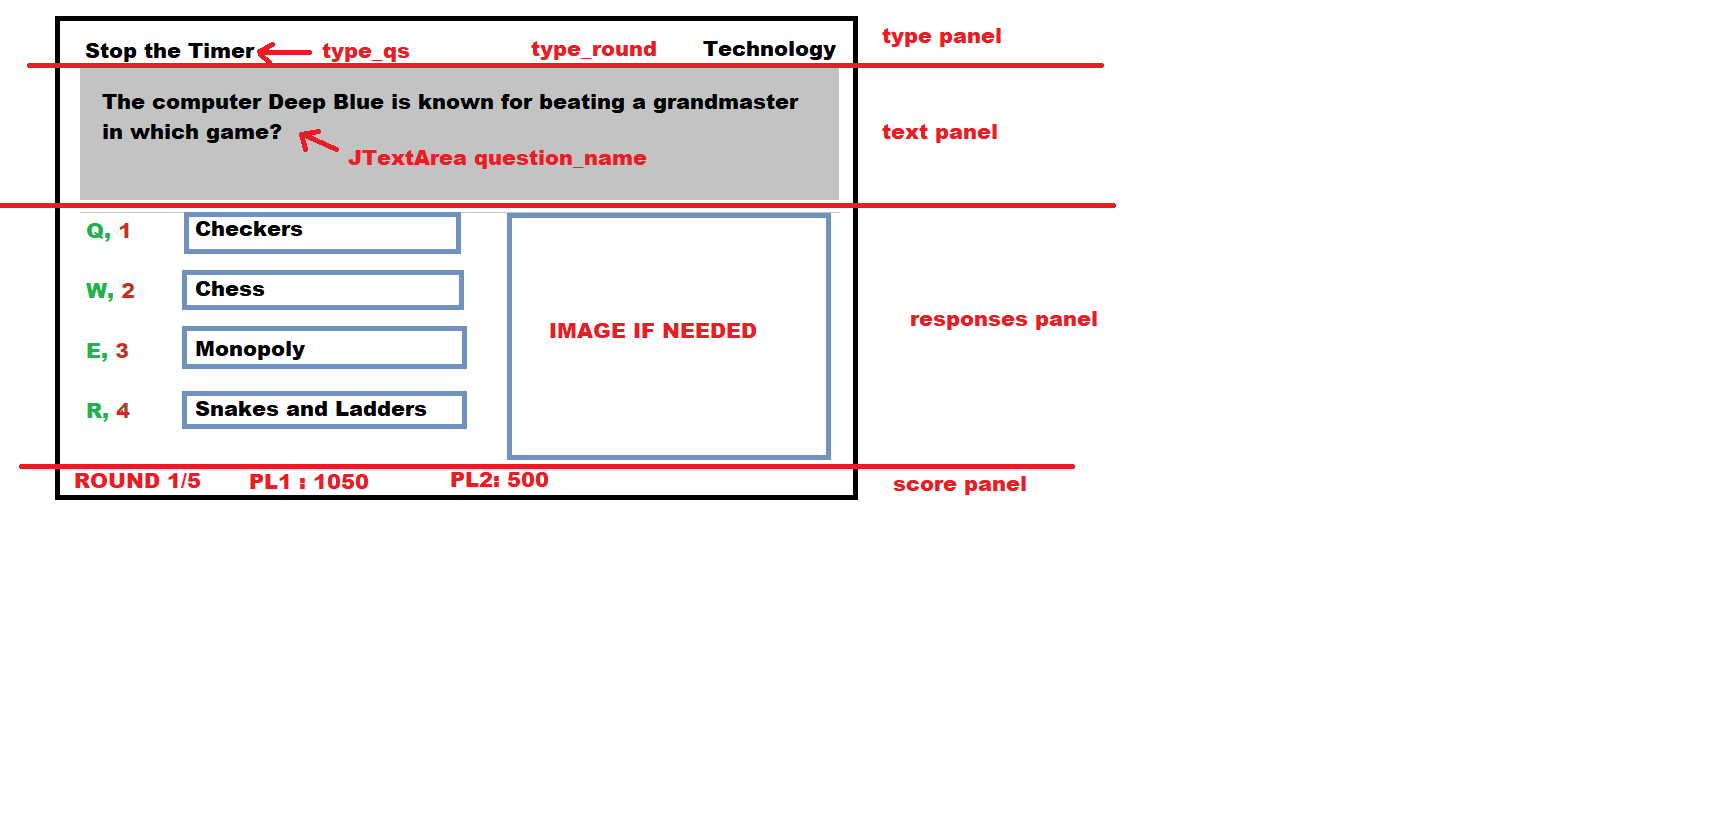
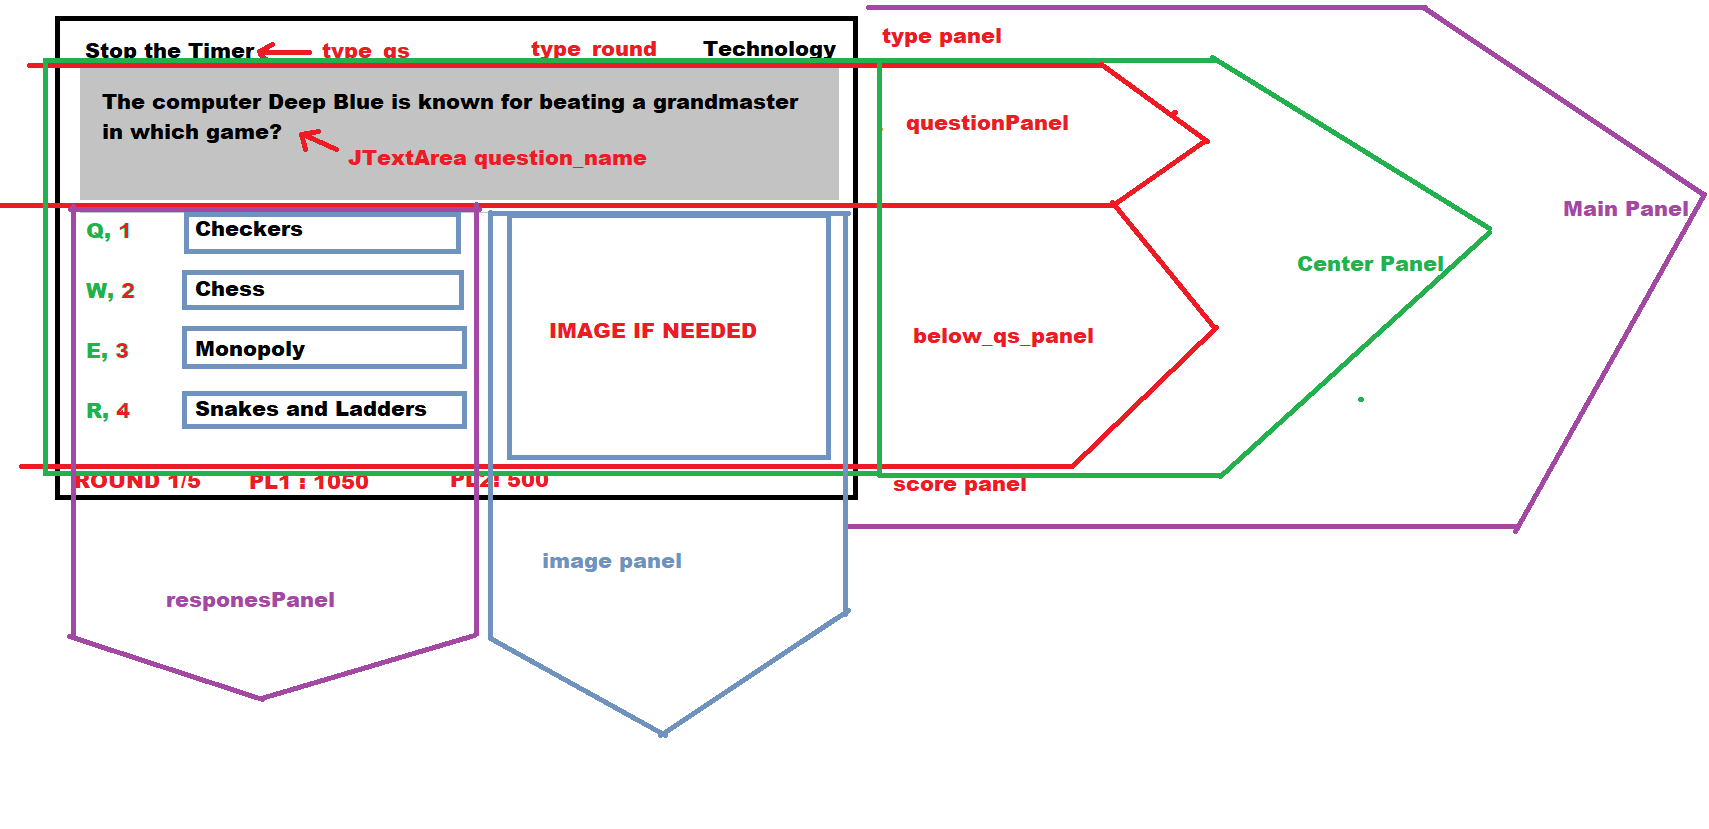
Added more things

diff --git a/src/GUI.java b/src/GUI.java
@@ -1,25 +1,62 @@
 import javax.swing.*;
+import javax.swing.border.Border;
 import java.awt.*;
+import java.net.URL;
 
 public class GUI {
     //Panels
     private JPanel mainPanel;
-    private JPanel textPanel;
+    private JPanel questionPanel;
     private JPanel typePanel;
     private JPanel responesPanel;
     private JPanel centerPanel;
+    private JPanel below_qs_panel;
+    private JPanel scorepanel;
+
+
     private JLabel txt_type_qs;
     private JLabel txt_type_round;
     private JTextArea txt_question_name;
-    private ImageIcon icon;
+
+    private JLabel[] txt_res_keys;
+    private JLabel[] txt_res;
+
+    private JLabel[] txt_players_points;
+
+
+    //private ImageIcon icon;
 
     private Font font_global;
 
     public GUI() {
 
+
+        ImageIcon icon;
+        String iconPath = "splash/button.png";
+        URL imageURL = getClass().getResource(iconPath);
+        icon = new ImageIcon(imageURL);
+        txt_players_points = new JLabel[2];
+        txt_players_points[0] = new JLabel("PL1 100");
+        txt_players_points[1] = new JLabel("PL2 200");
+
+        txt_res_keys = new JLabel[4];
+        txt_res_keys[0] = new JLabel("Q 1");
+
+        txt_res_keys[1] = new JLabel("W 2");
+        txt_res_keys[2] = new JLabel("E 3");
+        txt_res_keys[3] = new JLabel("R 4");
+
+        txt_res = new JLabel[4];
+        txt_res[0] = new JLabel("Response 1");
+
+        txt_res[1] = new JLabel("Response 2");
+        txt_res[2] = new JLabel("Response 3");
+        txt_res[3] = new JLabel("Response 4");
+
+
         font_global = new Font("Arial Black", Font.BOLD, 22);
 
-        JFrame frame = new JFrame("Test");
+        JFrame frame = new JFrame();
         frame.setTitle("Buzz Quiz World 2020");
         frame.setSize(800, 490);
         frame.setResizable(false);
@@ -65,32 +102,42 @@ public class GUI {
         frame.setVisible(true);
 
          */
+        Border border = BorderFactory.createLineBorder(Color.BLACK);
+
         mainPanel = new JPanel(new BorderLayout());
 
-        centerPanel = new JPanel(new GridBagLayout());
-        //centerPanel.setLayout(new BoxLayout(centerPanel, BoxLayout.PAGE_AXIS));
+        centerPanel = new JPanel();
+        centerPanel.setLayout(new BoxLayout(centerPanel, BoxLayout.Y_AXIS));
         typePanel = new JPanel();
         typePanel.setBackground(Color.BLACK);
-        typePanel.setLayout(new BoxLayout(typePanel,BoxLayout.LINE_AXIS));
-        textPanel = new JPanel();
-        textPanel.setBackground(Color.white);
-
-        responesPanel = new JPanel();
-        responesPanel.setLayout(new GridLayout(4,2));
-        //responesPanel.setPreferredSize(new Dimension(100,100));
+        typePanel.setLayout(new BoxLayout(typePanel, BoxLayout.LINE_AXIS));
+        questionPanel = new JPanel();
+        questionPanel.setBackground(Color.white);
+        questionPanel.setOpaque(true);
 
 
-        String questionString = "The computer Deep Blue is known for beating a grandmaster in which game?";
+        below_qs_panel = new JPanel(new FlowLayout(FlowLayout.LEFT));
+        responesPanel = new JPanel(new GridBagLayout());
+        GridBagConstraints c = new GridBagConstraints();
+
+        responesPanel.setBackground(Color.LIGHT_GRAY);
+        //responesPanel.setLayout(new GridLayout(4,1));
+        //responesPanel.setLayout(new BoxLayout(responesPanel,BoxLayout.Y_AXIS));
+
+        //responesPanel.setAlignmentX(Component.RIGHT_ALIGNMENT);
+
+        String questionString = "Which planet is covered in thick poisonous clouds, trapping all the heat it absorbs from the Sun?";
         //questionString = questionString.substring(0,53) + "-" + questionString.substring(53);
         txt_question_name = new JTextArea(questionString);
         txt_question_name.setFont(font_global);
-        txt_question_name.setOpaque(false);
+
+        txt_question_name.setOpaque(true);
         txt_question_name.setLineWrap(true);
         txt_question_name.setWrapStyleWord(true);
         txt_question_name.setPreferredSize(new Dimension(700, 90));
         txt_question_name.setEnabled(false);
         txt_question_name.setDisabledTextColor(Color.BLACK);
-
+        questionPanel.setMaximumSize(new Dimension(800, 100));
 
         txt_type_qs = new JLabel("Stop the Timer");
         txt_type_qs.setFont(font_global);
@@ -98,34 +145,133 @@ public class GUI {
         txt_type_round = new JLabel("Technology");
         txt_type_round.setForeground(Color.white);
         txt_type_round.setFont(font_global);
-        typePanel.add(Box.createRigidArea(new Dimension(40,0)));
+
+        typePanel.add(Box.createRigidArea(new Dimension(40, 0)));
         typePanel.add(txt_type_round);
         typePanel.add(Box.createHorizontalGlue());
         typePanel.add(txt_type_qs);
-        typePanel.add(Box.createRigidArea(new Dimension(40,0)));
+        typePanel.add(Box.createRigidArea(new Dimension(40, 0)));
 
-        GridBagConstraints c = new GridBagConstraints();
 
+        scorepanel = new JPanel();
+        scorepanel.setBackground(Color.BLACK);
+        scorepanel.setLayout(new BoxLayout(scorepanel, BoxLayout.X_AXIS));
+        scorepanel.add(Box.createRigidArea(new Dimension(40, 0)));
+        JLabel txt_round_count = new JLabel("ROUND 1");
+        txt_round_count.setForeground(Color.WHITE);
+        txt_round_count.setFont(font_global);
+        scorepanel.add(txt_round_count);
+        scorepanel.add(Box.createHorizontalGlue());
+
+        for (int i = 0; i < 2; i++) {
+            txt_players_points[i].setFont(font_global);
+            txt_players_points[i].setForeground(Color.WHITE);
+            scorepanel.add(txt_players_points[i]);
+            scorepanel.add(Box.createHorizontalGlue());
+        }
+        typePanel.add(Box.createRigidArea(new Dimension(40, 0)));
+
+
+        questionPanel.add(txt_question_name);
+
+        c.ipadx = 50;
+        for (int i = 0; i < 4; i++) {
+            c.gridx = 0;
+            c.gridy = i;
+            c.fill = GridBagConstraints.HORIZONTAL;
+            txt_res_keys[i].setFont(font_global);
+
+            txt_res_keys[i].setHorizontalAlignment(JLabel.CENTER);
+            responesPanel.add(txt_res_keys[i], c);
+
+            c.gridx += 1;
+            txt_res[i].setFont(font_global);
+            txt_res[i].setHorizontalAlignment(JLabel.LEFT);
+            responesPanel.add(txt_res[i], c);
+        }
+        /*
+        txt_res_key_1 = new JLabel("   Q    1");
+        txt_res_key_1.setFont(font_global);
+        txt_res_key_1.setHorizontalAlignment(JLabel.CENTER);
+        txt_res_key_1.setVerticalAlignment(JLabel.CENTER);
+        c.fill = 0;
         c.gridx = 0;
         c.gridy = 0;
-        centerPanel.add(textPanel,c);
+        c.gridwidth = 1;
+        responesPanel.add(txt_res_key_1,c);
         c.fill = GridBagConstraints.HORIZONTAL;
+        txt_res_1 = new JButton("Checkers");
+        txt_res_1.setFont(font_global);
+        txt_res_1.setHorizontalAlignment(JLabel.CENTER);
+        txt_res_1.setVerticalAlignment(JLabel.CENTER);
+        c.gridx = 1;
+        c.gridy = 0;
+        c.gridwidth = 0;
+        responesPanel.add(txt_res_1,c);
 
+        txt_res_key_2 = new JLabel("W    2");
+        txt_res_key_2.setFont(font_global);
+        txt_res_key_2.setHorizontalAlignment(JLabel.CENTER);
+        txt_res_key_2.setVerticalAlignment(JLabel.CENTER);
         c.gridx = 0;
         c.gridy = 1;
-        centerPanel.add(responesPanel,c);
-        c.fill = GridBagConstraints.HORIZONTAL;
-        textPanel.add(txt_question_name);
-        responesPanel.add(new JLabel("Q/1"));
-        responesPanel.add(new JButton("Checkers"));
-        responesPanel.add(new JLabel("W/2"));
-        responesPanel.add(new JButton("Chess"));
-        responesPanel.add(new JLabel("E/3"));
-        responesPanel.add(new JButton("Monopoly"));
-        responesPanel.add(new JLabel("R/4"));
-        responesPanel.add(new JButton("Snakes and Ladders"));
+        responesPanel.add(txt_res_key_2,c);
+
+        txt_res_2 = new JButton("Chess");
+        txt_res_2.setFont(font_global);
+        txt_res_2.setHorizontalAlignment(JLabel.CENTER);
+        txt_res_2.setVerticalAlignment(JLabel.CENTER);
+        responesPanel.add(txt_res_2,c);
+
+        txt_res_key_3 = new JLabel("E    3");
+        txt_res_key_3.setFont(font_global);
+        txt_res_key_3.setHorizontalAlignment(JLabel.CENTER);
+        txt_res_key_3.setVerticalAlignment(JLabel.CENTER);
+        responesPanel.add(txt_res_key_3,c);
+
+        txt_res_3 = new JButton("Monopoly");
+        txt_res_3.setFont(font_global);
+        txt_res_3.setHorizontalAlignment(JLabel.CENTER);
+        txt_res_3.setVerticalAlignment(JLabel.CENTER);
+        responesPanel.add(txt_res_3,c);
+
+        txt_res_key_4 = new JLabel("R    4");
+        txt_res_key_4.setFont(font_global);
+        txt_res_key_4.setHorizontalAlignment(JLabel.CENTER);
+        txt_res_key_4.setVerticalAlignment(JLabel.CENTER);
+        responesPanel.add(txt_res_key_4,c);
+
+        txt_res_4 = new JButton("Snakes and Ladders");
+        txt_res_4.setFont(font_global);
+        txt_res_4.setHorizontalAlignment(JLabel.CENTER);
+        txt_res_4.setVerticalAlignment(JLabel.CENTER);
+        responesPanel.add(txt_res_4,c);
+
+
+
+         */
+
+        centerPanel.add(Box.createRigidArea(new Dimension(0, 25)));
+        //centerPanel.add(Box.createVerticalGlue());
+
+        centerPanel.add(questionPanel);
+
+        centerPanel.add(Box.createRigidArea(new Dimension(0, 20)));
+        centerPanel.add(Box.createGlue());
+
+        below_qs_panel.add(responesPanel);
+        below_qs_panel.add(new JButton("Image Placeholder"));
+
+        centerPanel.add(below_qs_panel);
+        centerPanel.add(Box.createHorizontalGlue());
+
+        //centerPanel.add(Box.createVerticalGlue());
+
+        centerPanel.add(Box.createRigidArea(new Dimension(40, 100)));
         mainPanel.add(typePanel, BorderLayout.PAGE_START);
         mainPanel.add(centerPanel, BorderLayout.CENTER);
+        mainPanel.add(scorepanel, BorderLayout.PAGE_END);
+
         frame.add(mainPanel);
         //frame.pack();
         frame.setVisible(true);
